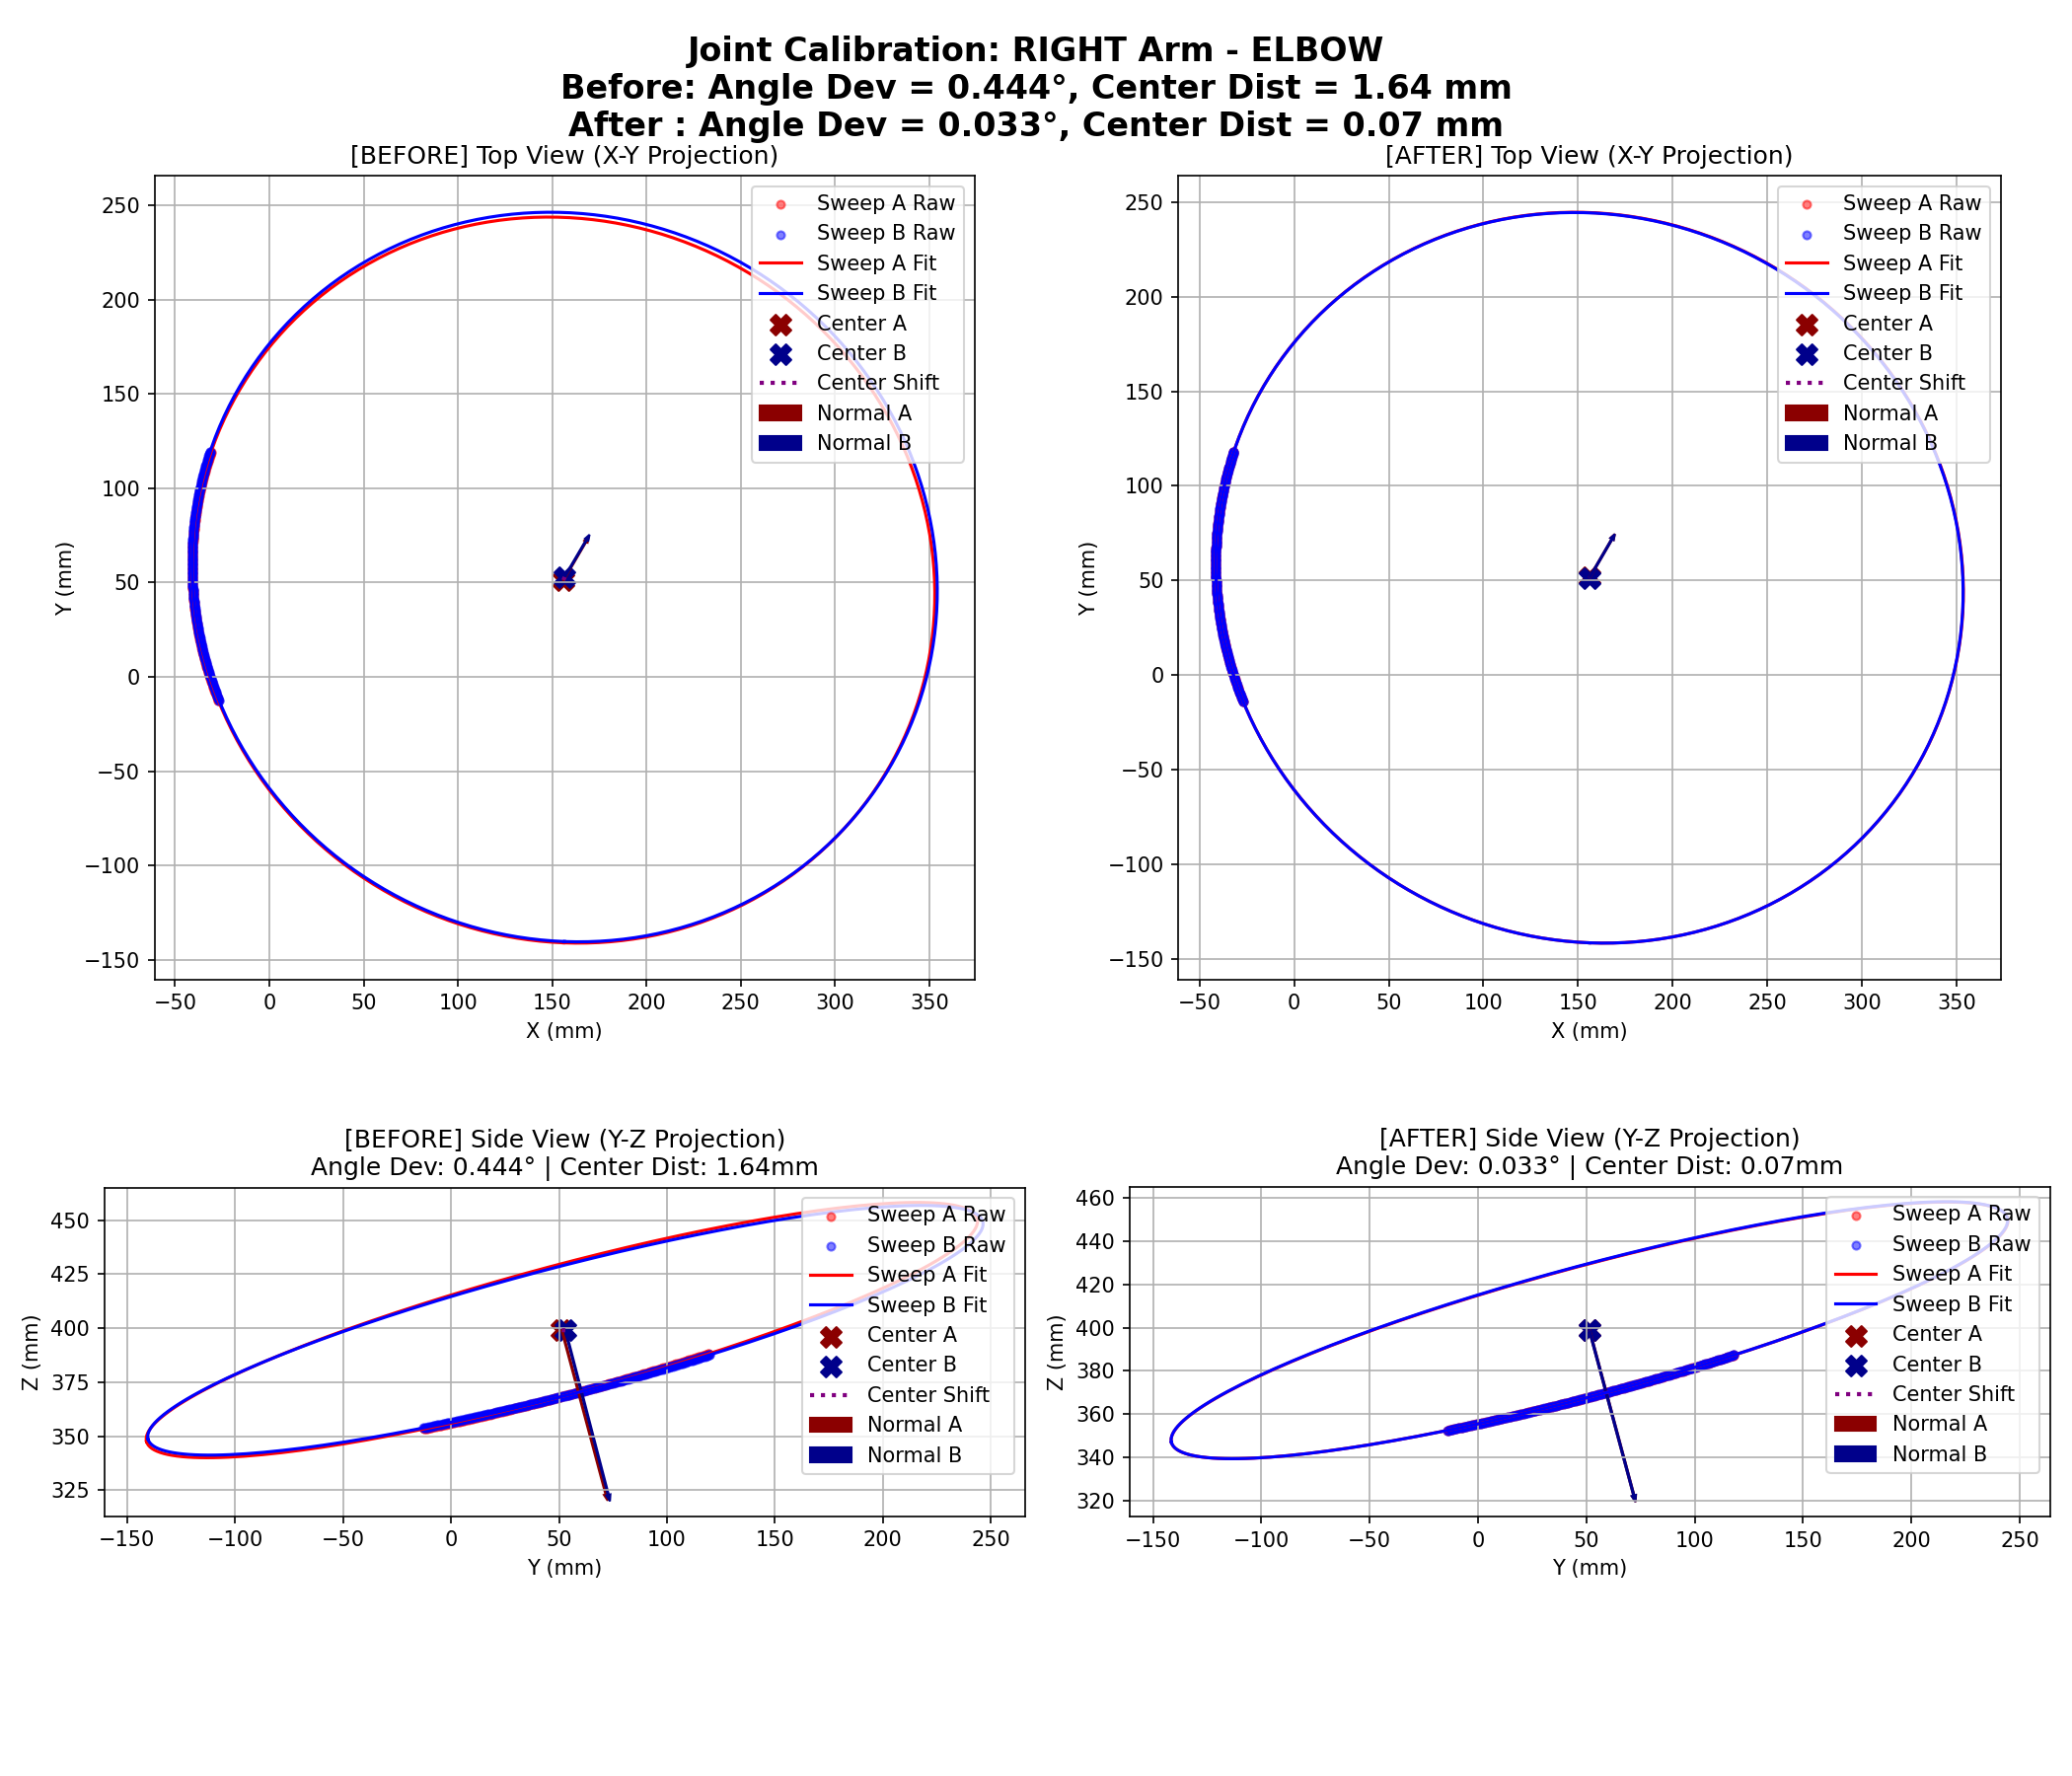
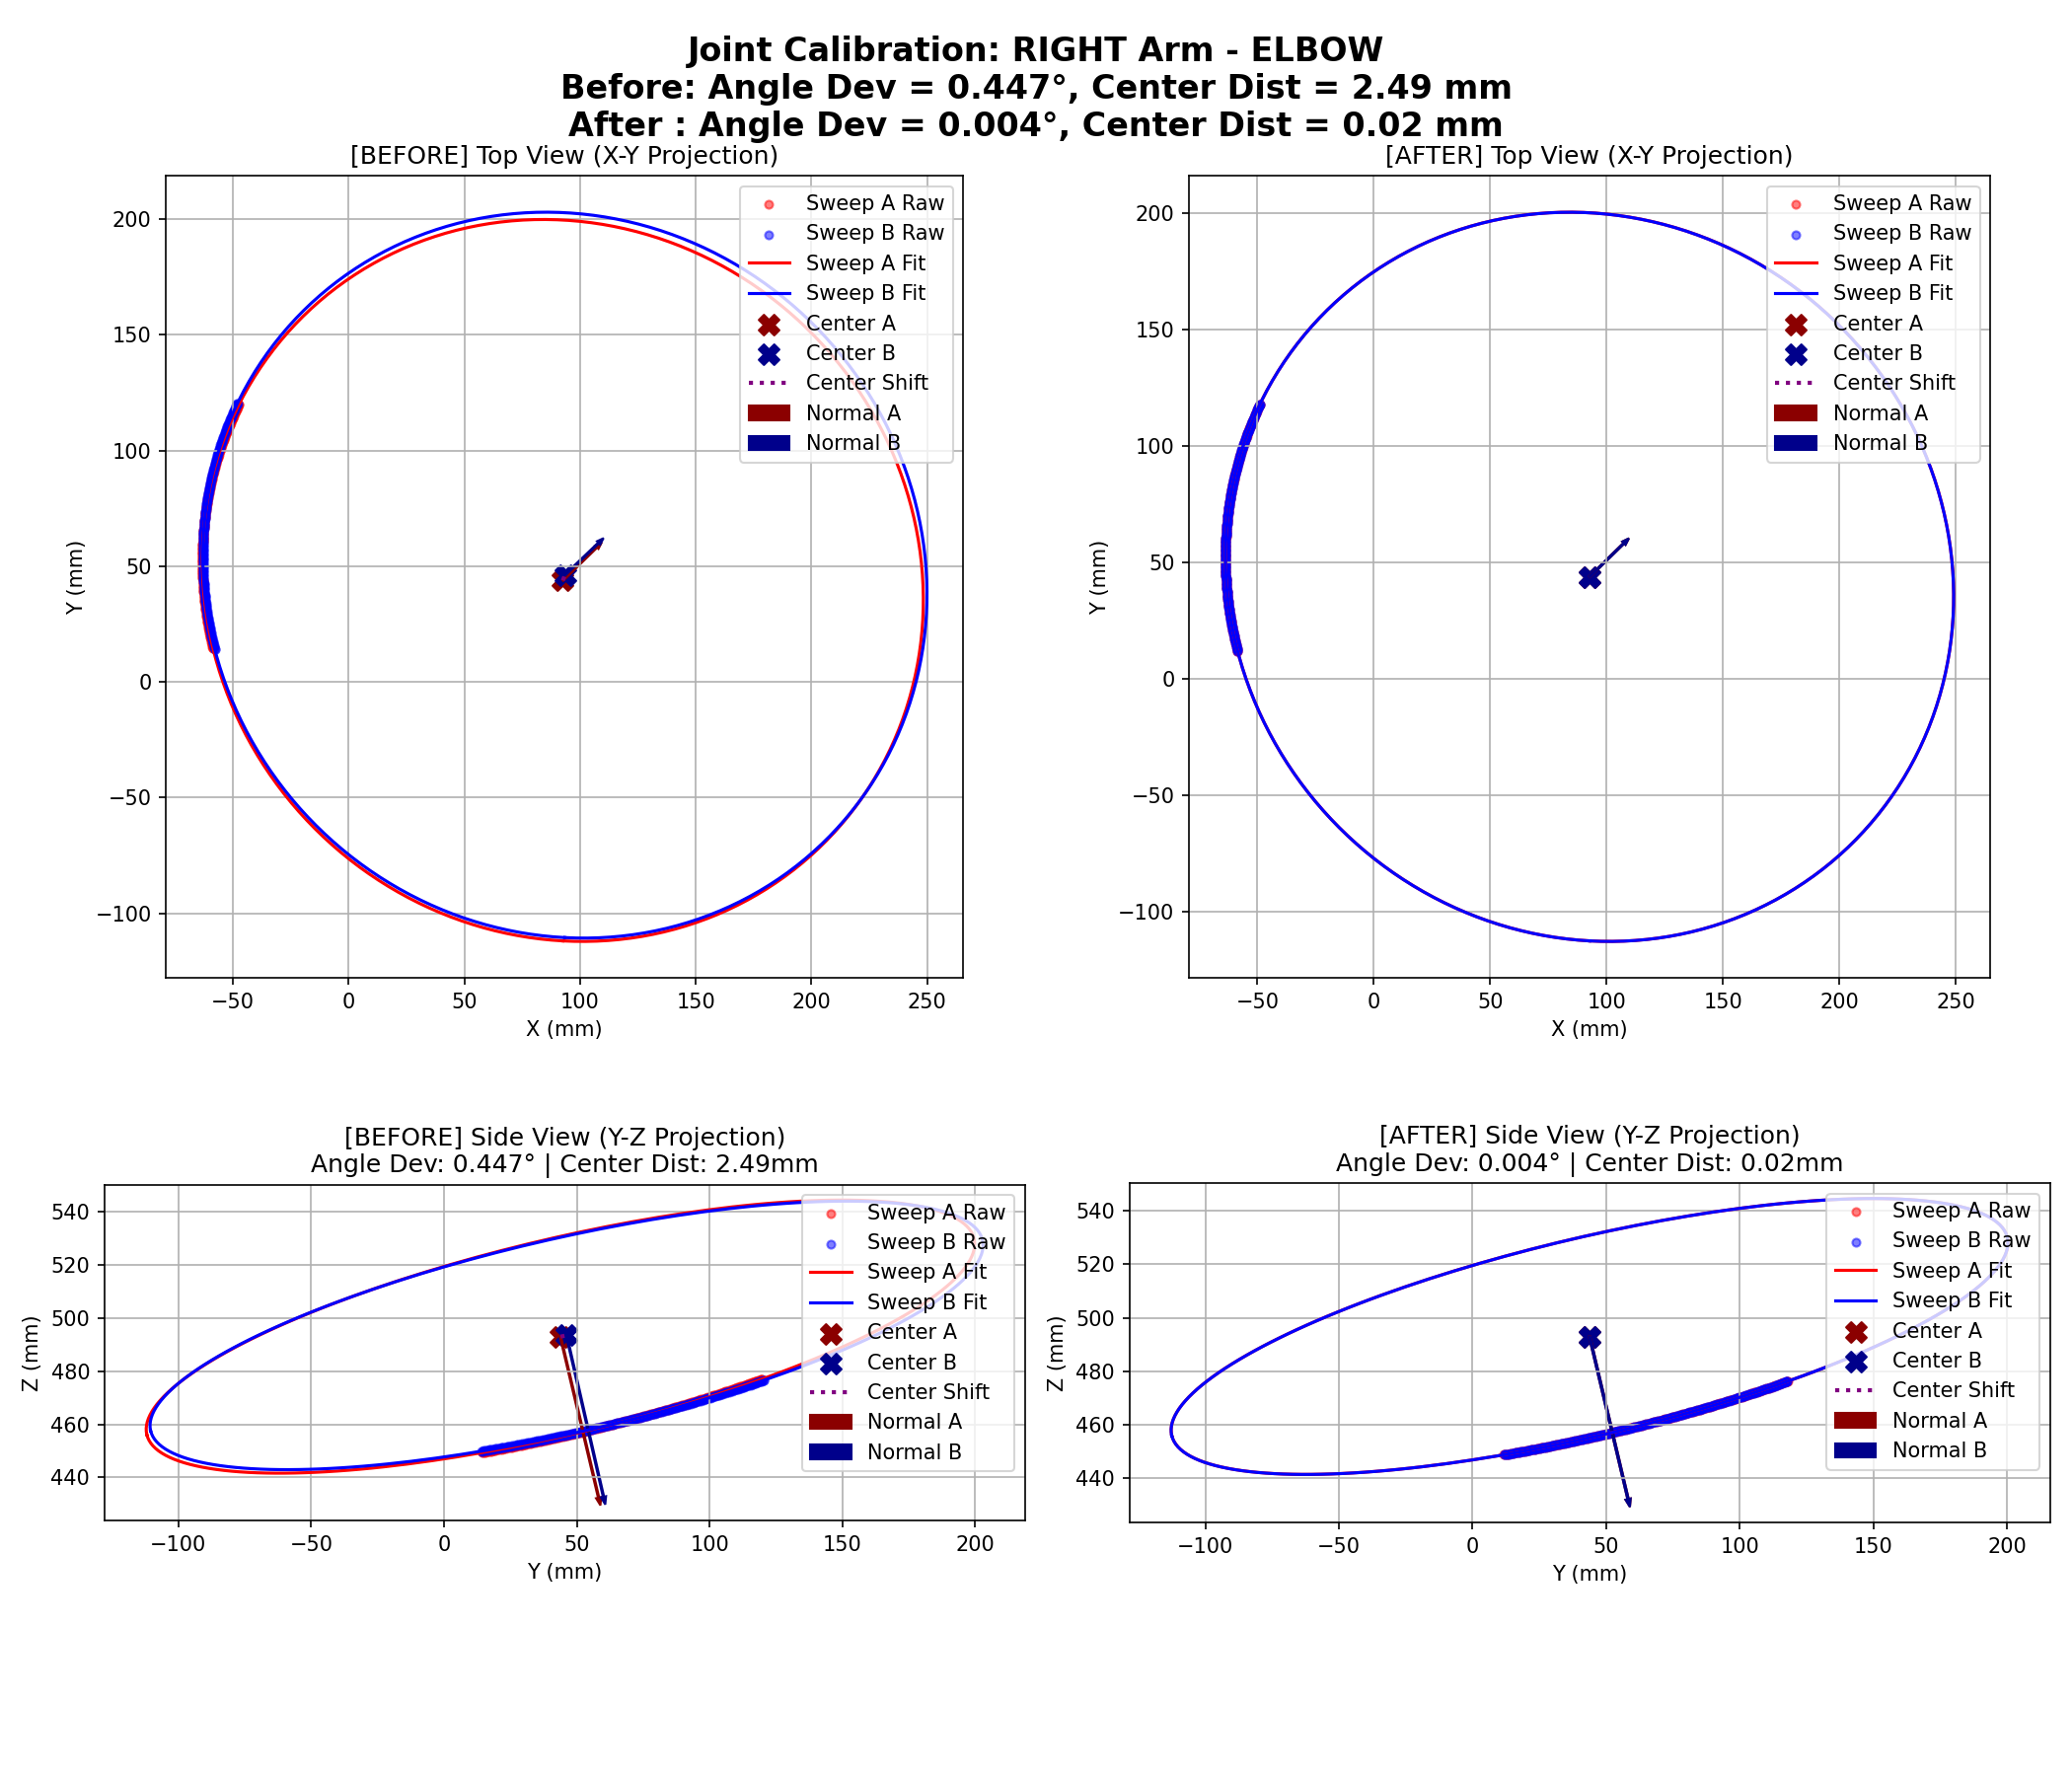
update files

diff --git a/core/calibration/JointCalibrator.py b/core/calibration/JointCalibrator.py
@@ -1380,30 +1380,31 @@ class JointCalibrator(BaseCalibrator):
                 
                 # Compute dynamic camera rotation relative to torso (link_torso_5) using head FK
                 T_t5_to_head = BaseCalibrator.compute_fk(self.robot, dyn_model, q_ready, "link_head_2", "link_torso_5")
-                T_t5_to_cam = T_t5_to_head @ T_mount_to_cam
-                R_rob_to_cam = T_t5_to_cam[:3, :3]
+                T_t5_to_cam_fk = T_t5_to_head @ T_mount_to_cam
+                R_rob_to_cam = T_t5_to_cam_fk[:3, :3]
             else:
                 a_cand_t5 = np.array([0.0, 1.0, 0.0])
                 a_A_t5 = np.array([0.0, 0.0, 1.0])
                 a_B_t5 = np.array([0.0, 0.0, 1.0])
-                R_rob_to_cam = R_scipy.from_euler('ZYX', [-90.0, 0.0, -90.0], degrees=True).as_matrix()
+                R_rob_to_cam = R_scipy.from_euler('ZYX', [-90.0, 0.0, -90.0], degrees=True).as_matrix().T
         except Exception as e:
             if log_callback:
                 log_callback(f"[WARN] Failed to compute nominal axes via FK: {e}. Falling back to hardcoded torso axes.")
             a_cand_t5 = np.array([0.0, 1.0, 0.0])
             a_A_t5 = np.array([0.0, 0.0, 1.0])
             a_B_t5 = np.array([0.0, 0.0, 1.0])
-            R_rob_to_cam = R_scipy.from_euler('ZYX', [-90.0, 0.0, -90.0], degrees=True).as_matrix()
+            R_rob_to_cam = R_scipy.from_euler('ZYX', [-90.0, 0.0, -90.0], degrees=True).as_matrix().T
 
 
-        # Define nominal axes in the camera frame using transpose of R_rob_to_cam (since R_rob_to_cam is R_cam_to_torso)
-        a_cand_cam = R_rob_to_cam.T @ a_cand_t5
-        a_A_cam = R_rob_to_cam.T @ a_A_t5
-        a_B_cam_nom = R_rob_to_cam.T @ a_B_t5
+        # Define nominal axes in the camera frame using R_rob_to_cam
+        a_cand_cam = R_rob_to_cam @ a_cand_t5
+        a_A_cam = R_rob_to_cam @ a_A_t5
+        a_B_cam_nom = R_rob_to_cam @ a_B_t5
 
         # Define T_t5_to_cam using fixed rotation and zero translation (strictly camera fixed, no FK)
         T_t5_to_cam = np.eye(4)
         T_t5_to_cam[:3, :3] = R_rob_to_cam
+
         
         a_cand_cam /= np.linalg.norm(a_cand_cam)
         a_A_cam /= np.linalg.norm(a_A_cam)

diff --git a/core/calibration/MarkerCalibrator.py b/core/calibration/MarkerCalibrator.py
@@ -27,7 +27,7 @@ class MarkerCalibrator(BaseCalibrator):
         
         # Get rotation only from mount_to_cam
         mount_to_cam = self.camera_config.get("mount_to_cam", [0.047, 0.009, 0.057, -90.0, 0.0, -90.0])
-        R_rob_to_cam = R_scipy.from_euler('ZYX', [mount_to_cam[5], mount_to_cam[4], mount_to_cam[3]], degrees=True).as_matrix()
+        R_cam_to_rob = R_scipy.from_euler('ZYX', [mount_to_cam[5], mount_to_cam[4], mount_to_cam[3]], degrees=True).as_matrix()
         p_target_cam = np.array([0.0, 0.0, target_dist / 1000.0])
 
         for attempt in range(max_attempts):
@@ -55,23 +55,23 @@ class MarkerCalibrator(BaseCalibrator):
             rot_err_mat = cam_rot.T
             rot_err_deg = np.rad2deg(np.arccos(np.clip((np.trace(rot_err_mat) - 1) / 2, -1.0, 1.0)))
             err_norm = np.linalg.norm([pos_err_mm, rot_err_deg])
-
+ 
             if log_callback:
                 log_callback(f"  Current: X={cam_pos[0]*1000:.1f}, Y={cam_pos[1]*1000:.1f}, Z={cam_pos[2]*1000:.1f} mm")
                 log_callback(f"  Error Norm: {err_norm:.2f} (Pos:{pos_err_mm:.1f}mm, Ang:{rot_err_deg:.1f}deg)")
-
+ 
             if err_norm <= 0.5:
                 if log_callback: log_callback(f"  [SUCCESS] Reached center aligned pose! (Norm: {err_norm:.2f})")
                 break
-
+ 
             if log_callback: log_callback("  Calculating joint command and moving...")
             
             dp_cam = p_target_cam - cam_pos
             dR_cam = cam_rot.T  # relative rotation error to identity
             
-            # Rotate errors to robot frame (using only rotation R_rob_to_cam)
-            dp_rob = R_rob_to_cam @ dp_cam
-            dR_rob = R_rob_to_cam @ dR_cam @ R_rob_to_cam.T
+            # Rotate errors to robot frame (using only rotation R_cam_to_rob)
+            dp_rob = R_cam_to_rob @ dp_cam
+            dR_rob = R_cam_to_rob @ dR_cam @ R_cam_to_rob.T
             
             ee_name = f"ee_{arm_side}"
             T_rob_to_ee = self.compute_fk(self.robot, self.robot.get_dynamics(), self.robot.get_state().position, ee_name, "link_torso_5")